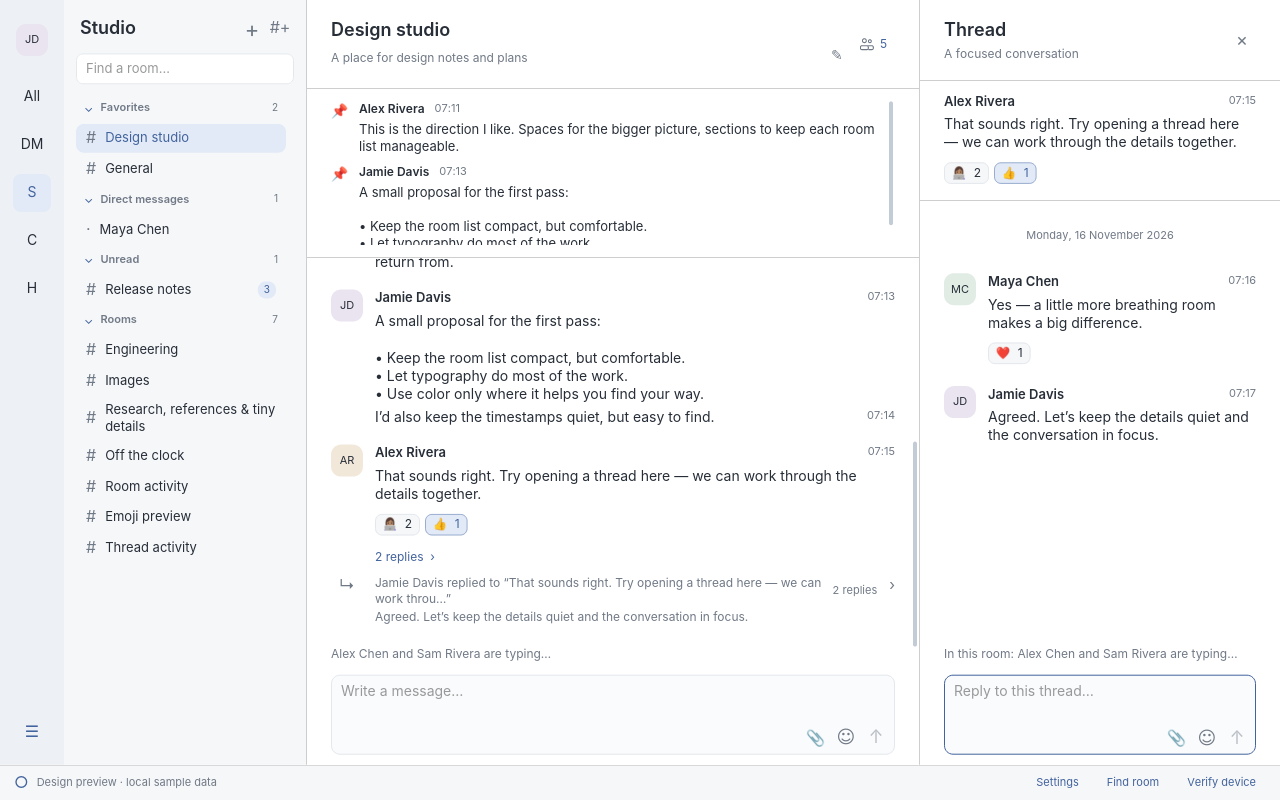
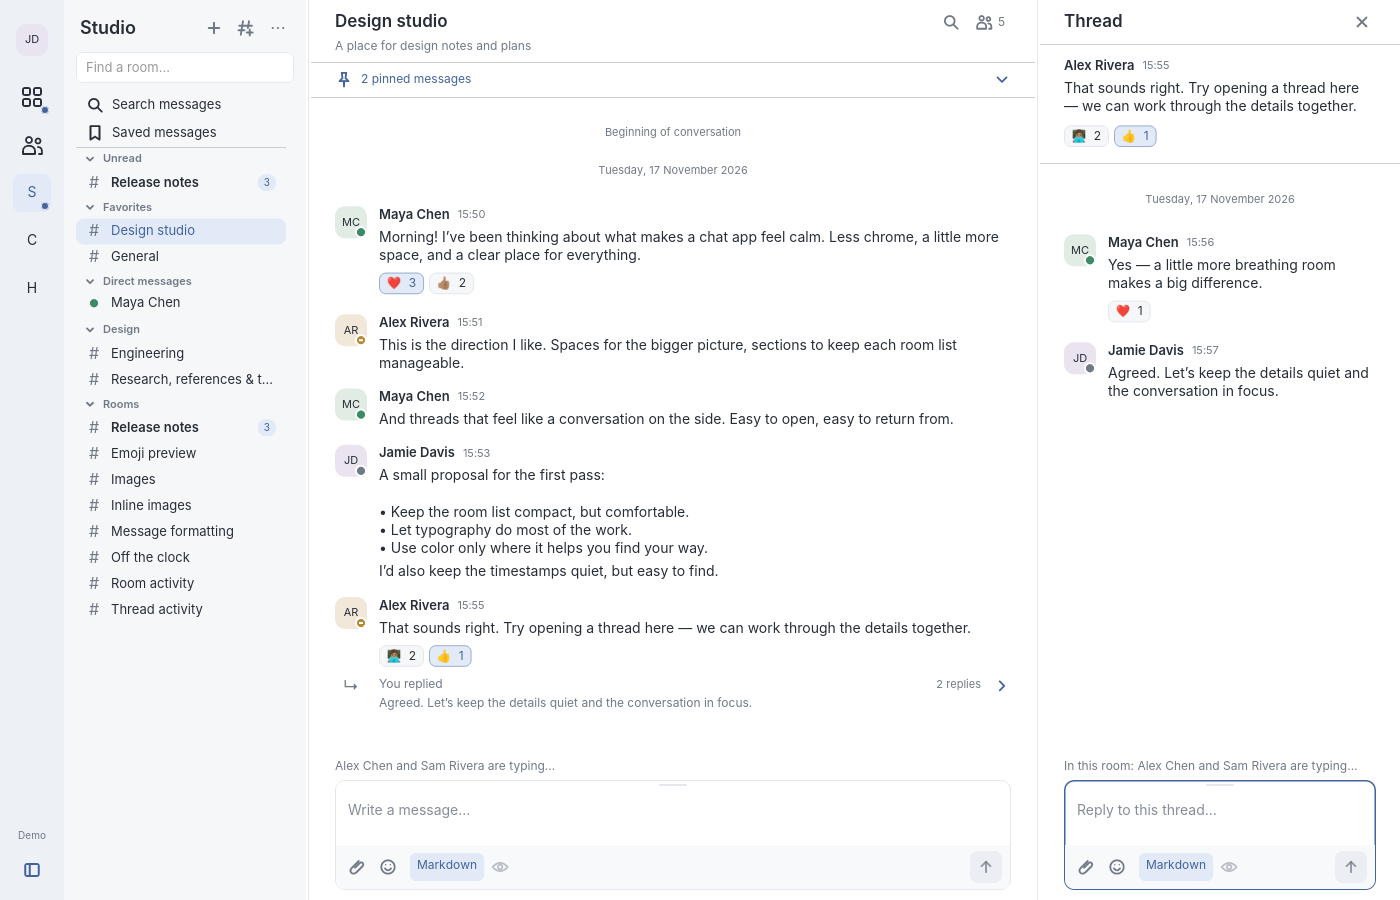
update readme

diff --git a/README.md b/README.md
@@ -6,39 +6,51 @@
 
 Interconnect is a native desktop [Matrix](https://matrix.org/) client written in
 Rust with [Iced](https://iced.rs/) and the
-[Matrix Rust SDK](https://github.com/matrix-org/matrix-rust-sdk). It aims to be
-lightweight and responsive,
-with a clean interface, strong conversation organization, and power-user features.
-Spaces, room sections, threads, and keyboard shortcuts help keep busy accounts
-manageable. Event-driven updates keep background work and idle power use low.
+[Matrix Rust SDK](https://github.com/matrix-org/matrix-rust-sdk). Spaces, custom
+room sections, and side-by-side threads keep conversations organized in a minimal
+interface. Message search, saved messages, and keyboard shortcuts help you find
+your way around busy accounts. Event-driven updates aim to keep idle CPU use and
+wakeups low.
 
 This project is fully AI-coded for the developer's own use, and shared in case
 it's useful to anyone else. It's a working prototype, with Linux/Wayland as the
-primary platform and best-effort macOS builds.
+primary development platform and experimental Apple Silicon macOS builds.
 
-![Interconnect demo showing spaces, room sections, a conversation, and a thread](docs/images/demo.png)
+![Interconnect showing space navigation, unread rooms, custom sections, presence marks, and a conversation with a side-by-side thread](docs/images/demo.png)
 
-*Demo mode with local sample conversations.*
+*Room and thread conversations in demo mode, using only local sample data.*
 
 ## Current features
 
 - Password and browser SSO login, saved sessions, encrypted messaging, and device
   verification.
-- Spaces, room sections, direct messages, and quick room switching.
-- Room and thread timelines with history loading, separate drafts and reading
-  positions, send status, and retry.
+- Spaces, custom room sections, favorites, unread indicators and ordering, direct
+  messages, and quick room switching. Space filters keep the open conversation.
+- Resizable room and thread panes with history loading, separate per-session
+  drafts and reading positions, send status, and retry.
+- In-room search and account-wide message search, with explicit scans of older
+  encrypted history using available keys.
+- Saved messages with room and thread previews and navigation to the original.
+- Edit your own text messages and emotes; delete messages with confirmation and
+  room permission checks.
 - Formatted messages with styled text, lists, quotes, code, links, spoilers, and
   inline images with explicit dimensions.
 - Matrix-compatible inline and display LaTeX math, rendered locally with RaTeX.
 - Markdown composition, on-demand previews, and a per-conversation plain-text mode.
 - People search, room creation, invitations, room topics, and pinned messages.
-- Reactions, Unicode and Matrix custom emoji pickers/completion, image viewing,
-  and click-to-play GIFs.
-- Personal and room emoji pack management with image uploads.
+- Reactions, Unicode and Matrix custom emoji pickers/completion, and personal and
+  room emoji pack management with image uploads.
+- Image viewing and click-to-play GIFs.
 - Save original attachments or open them in the default application, including
   encrypted images, files, audio, and video in rooms and threads.
 - Attachments through file picking, clipboard paste, and drag-and-drop.
-- Desktop notifications, keyboard shortcuts, and configurable settings.
+- On-demand presence snapshots, with optional periodic refresh disabled by default.
+- Desktop notifications, keyboard shortcuts, and configurable navigation,
+  composition, media, and graphics settings.
+
+![Account-wide demo search showing highlighted matches from multiple rooms and threads with controls to open the original messages](docs/images/search.png)
+
+*Search across conversations, with highlighted results and links back to messages.*
 
 ## Try it
 
@@ -50,6 +62,11 @@ cargo run --locked --bin interconnect -- --demo
 
 Demo mode uses local sample data without a saved account or Matrix connection.
 Run without `--demo` to sign in; the homeserver needs native sliding sync.
+
+Experimental downloads are available from successful GitHub Actions runs:
+[Debian amd64 packages](docs/development.md#debian-package-automation) and
+[Apple Silicon macOS builds](docs/development.md#download-a-bleeding-edge-macos-build).
+These are bleeding-edge builds; the macOS app is signed ad hoc and not notarized.
 
 See the [documentation](docs/README.md) for setup, packaging, configuration, and
 [current limitations](docs/limitations.md).
